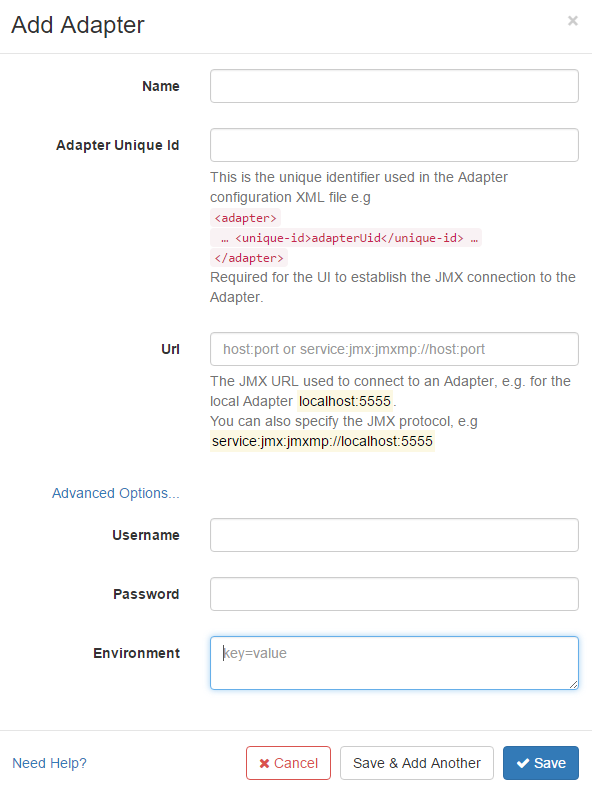
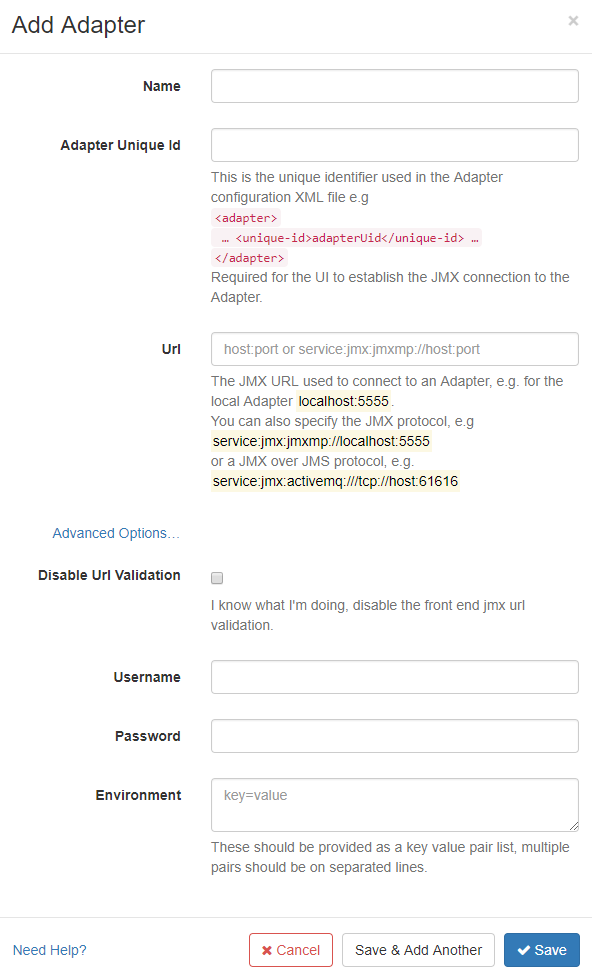
INTERLOK-1859 #time 2h #comment Update documentation for other changes in the UI.

diff --git a/pages/ui/ui-user-preferences.md b/pages/ui/ui-user-preferences.md
@@ -15,26 +15,27 @@ You can access the User Preferences modal by clicking on the down arrow next to 
 The preferences are:
 
 ## Global Preferences ##
- - Disable the remove component confirm dialog: Before deleting components in the config page the application will prompt the user for confirmation. The prompt can be disabled, very useful when a lot of components need to be deleted. The default value is true. (Since 3.2)
+ - **Disable the remove component confirm dialog:** Before deleting components in the config page the application will prompt the user for confirmation. The prompt can be disabled, very useful when a lot of components need to be deleted. The default value is true. (Since 3.2)
 
 ## Dashboard Page Preferences ##
- - Timeout (ms) for adapter command operations: The timeout for the adapter commands such as Start Adapter, Stop Adapter, Start Channel ... The default value is 120000 ms (2 mins).
+ - **Timeout (ms) for adapter command operations:** The timeout for the adapter commands such as Start Adapter, Stop Adapter, Start Channel ... The default value is 120000 ms (2 mins).
 
 ## Configuration Page Preferences ##
- - Display names in the component title: Whether to display the component name in the component title or in the body. The default value is false.
- - Prettify names in the component title: The ui can display the component type and uid nicely (remove hyphen, underscore and split camel case uid). The default value is true.
- - Always attempt to load the active adapter (if only one exists): Decides when opening the config page if the application should automatically load the running adapter config or prompt the user for choices. The default value is true. (Since 3.2)
- - Collapse component container when a sub component is selected: The Adapter and Channel component container will collapse automatically if a child Channel or Workflow is selected. The default value is false. (Since 3.6)
- - Always show the action buttons on the components (Since 3.6.1)
+ - **Display names in the component title:** Whether to display the component name in the component title or in the body. The default value is false.
+ - **Prettify names in the component title:** The ui can display the component type and uid nicely (remove hyphen, underscore and split camel case uid). The default value is true.
+ - **Always attempt to load the active adapter (if only one exists):** Decides when opening the config page if the application should automatically load the running adapter config or prompt the user for choices. The default value is true. (Since 3.2)
+ - **Collapse component container when a sub component is selected:** The Adapter and Channel component container will collapse automatically if a child Channel or Workflow is selected. The default value is false. (Since 3.6)
+ - **Always show the action buttons on the components:** The component action buttons are normally displayed on component hover. This options allows to always display the action buttons. This may be easier to use with touch screen. (Since 3.6.1)
+ - **Action Button Size:** Change some icons size in the config page if you find them too big or too small.
 
 ## Configuration Page Editor Preferences ##
- - Use Vim mode in Component XML Editor: Use Vim mode when editing component in the xml view. The default value is false. (Since 3.6)
+ - **Use Vim mode in Component XML Editor:** Use Vim mode when editing component in the xml view. The default value is false. (Since 3.6)
  
 ## Runtime Widget Page Preferences ##
- - Hide the last index plot on the charts: Whether or not charts should hide the last index. The default value is false.
+ - **Hide the last index plot on the charts:** Whether or not charts should hide the last index. The default value is false.
  
 ## Failed Messages Preferences ##
- - Also delete message file on the adapter file system when ignoring a failed message: When ignoring a failed message the associated message file in the file system will be deleted. The default value is false.
+ - **Also delete message file on the adapter file system when ignoring a failed message:** When ignoring a failed message the associated message file in the file system will be deleted. The default value is false.
  
 ## Log Monitor Preferences ##
- - Reverse the order that the log lines are shown: The newst log lines will be display at the top of log panel. (Since 3.6.2)
+ - **Reverse the order that the log lines are shown:** The newst log lines will be display at the top of log panel. (Since 3.6.2)

diff --git a/pages/ui/ui-config.md b/pages/ui/ui-config.md
@@ -28,13 +28,15 @@ Just click on the Open Config button and that will open a modal displaying sever
 
 - **Active Adapter:** Retrieve a configuration from a running Adapter configured in the application.
 - **New:** Create a brand new Adapter configuration.
-- **File System:** Open an Adapter configuration file from your file system.
+- **File System:** Open an Adapter configuration file from your file system. It can be an adapter.xml file or a zip file * (since 3.6.5). 
 - **Saved Config:** Open an Adapter configuration from the list of previously [saved configurations](ui-saved-configs.html).
 - **Auto Saved:** Open an Adapter configuration from the last auto saved configuration.
 - **Use Template:** Create a new Adapter configuration from a template.
 - **Swagger:** Open an Adapter configuration using a Swagger file from your file system. Simple rest service swagger configuration (yaml or json) get converted to an adapter config with http jetty consumers. (Since 3.5.0)
 - **Version Control:** Retrieve a configuration from a Version Control System (Subversion or Git). For this option to be enabled [VCS](advanced-version-control.html) needs to be configured and you need at least one VCS Profile.
 - **Import:** Import an Adapter configuration with variable properties.
+
+{% include note.html content="* When using **File System:** with a zip file, the zip file need to be built with an adapter.xml in the zip root. Optionally a variables substitution file called _variables.properties_ can be added. An includes folder can also be added if the adapter.xml uses X-Includes, the folder name will have to be adapter-includes (_'nameOfAdapterXmlFile'_ + _'-includes'_) and contains all the X-Includes files." %}
 
 ## Navigating the config page ##
 

diff --git a/pages/ui/ui-dashboard.md b/pages/ui/ui-dashboard.md
@@ -252,6 +252,7 @@ The Add Adapter form inputs explained:
 - **Adapter Unique Id:** This is the Adapter unique identifier used in the Adapter configuration XML file: `<adapter><unique-id>adapterUid</unique-id</adapter>`. This is required for the UI to establish the JMX connection to the Adapter.
 - **URL:** The JMX URL used to connect to the Adapter, for example: localhost:5555. You can also provide the JMX protocol: service:jmx:jmxmp://localhost:5555
 - **Advanced Options** - Clicking the Advanced Options link will unveil three more properties, all of which are optional :
+    - **Disable Url Validation:** This options disable the JMX URL front-end validation. It should be use with care and only if you know that the JMX URL you are using is valid but fails validation (Since 3.6.5)
     - **Username:** The username needed to establish the JMX connection if you are using password protection for the adapter JMX connection as describe in [Password Protecting JMXMP](advanced-jmx.html#password-protecting-jmxmp-311) (Since 3.1.1)
     - **Password:** The password needed to establish the JMX connection if you are using password protection for the adapter JMX connection as describe in [Password Protecting JMXMP](advanced-jmx.html#password-protecting-jmxmp-311) (Since 3.1.1)
     - **Environment:** Some environment properties needed for the JMX connection. These should be provided as a key value pair list (multiple pairs should be on separated lines), for example: javax.net.ssl.trustStore=/tmp/myStrustsore

diff --git a/pages/ui/ui-version-control.md b/pages/ui/ui-version-control.md
@@ -34,6 +34,7 @@ Add one or more profile using the add button and filling the details to connect 
         - **SSH Passphrase:** The SSH key passphrase to connect to the remote repository. The passphrase is not mandatory, you will be prompted when necessary.
 - **Working Copy URL:** The location on the file system where the repository will be checked out. This is relative to the adapter-home/vcs-repos/directory. A default location is generated using your username, the vcs type and a timestamp.
 - **Remote Repo URL:** The URL for the remote repository.
+- **Revision:** (Since 3.6.5) The revision the remote repository. A revision can be a branch name, a revision number or a commit checksum depending on which VCS provider you are using. If left empty, the last checked out revision or the default revision will be used.
 - **Config File Name:** The name of the adapter xml configuration file. If not filled the default adapter.xml will be used. (Only used with config vcs profile)
 - **Properties File Name:** The name of the adapter variable substitutions properties file. If not filled no variable substitutions will be done when loading a config. (Only used with config vcs profile). Check [pre processors variable substitution](advanced-configuration-pre-processors.html#variable-substitution) for more details about variable substitutions.
 

diff --git a/pages/ui/ui-switch-db.md b/pages/ui/ui-switch-db.md
@@ -61,3 +61,18 @@ dataSource.password=interlokuidb
  - Start the adapter
 
 {% include note.html content="The given sql queries are just example an may need to be adjusted to your needs." %}
+
+## System Properties ##
+
+Since version 3.6.5 the database settings can be configured with command line system properties.
+When used they will override any properties set in properties files.
+
+```
+-DdataSource.provider=mysql -DdataSource.driverClass=com.mysql.jdbc.Driver -DdataSource.jdbcURL="jdbc:mysql://localhost:3306/interlokuidb?&autoReconnect=true" -DdataSource.user=interlokuidb -DdataSource.password=interlokuidb
+```
+
+If the user and password are provided in the jdbc url they will override any other set user and password.
+
+```
+-DdataSource.provider=mysql -DdataSource.driverClass=com.mysql.jdbc.Driver -DdataSource.jdbcURL="jdbc:mysql://localhost:3306/interlokuidb?user=interlokuidb&password=interlokuidb&autoReconnect=true"
+```
